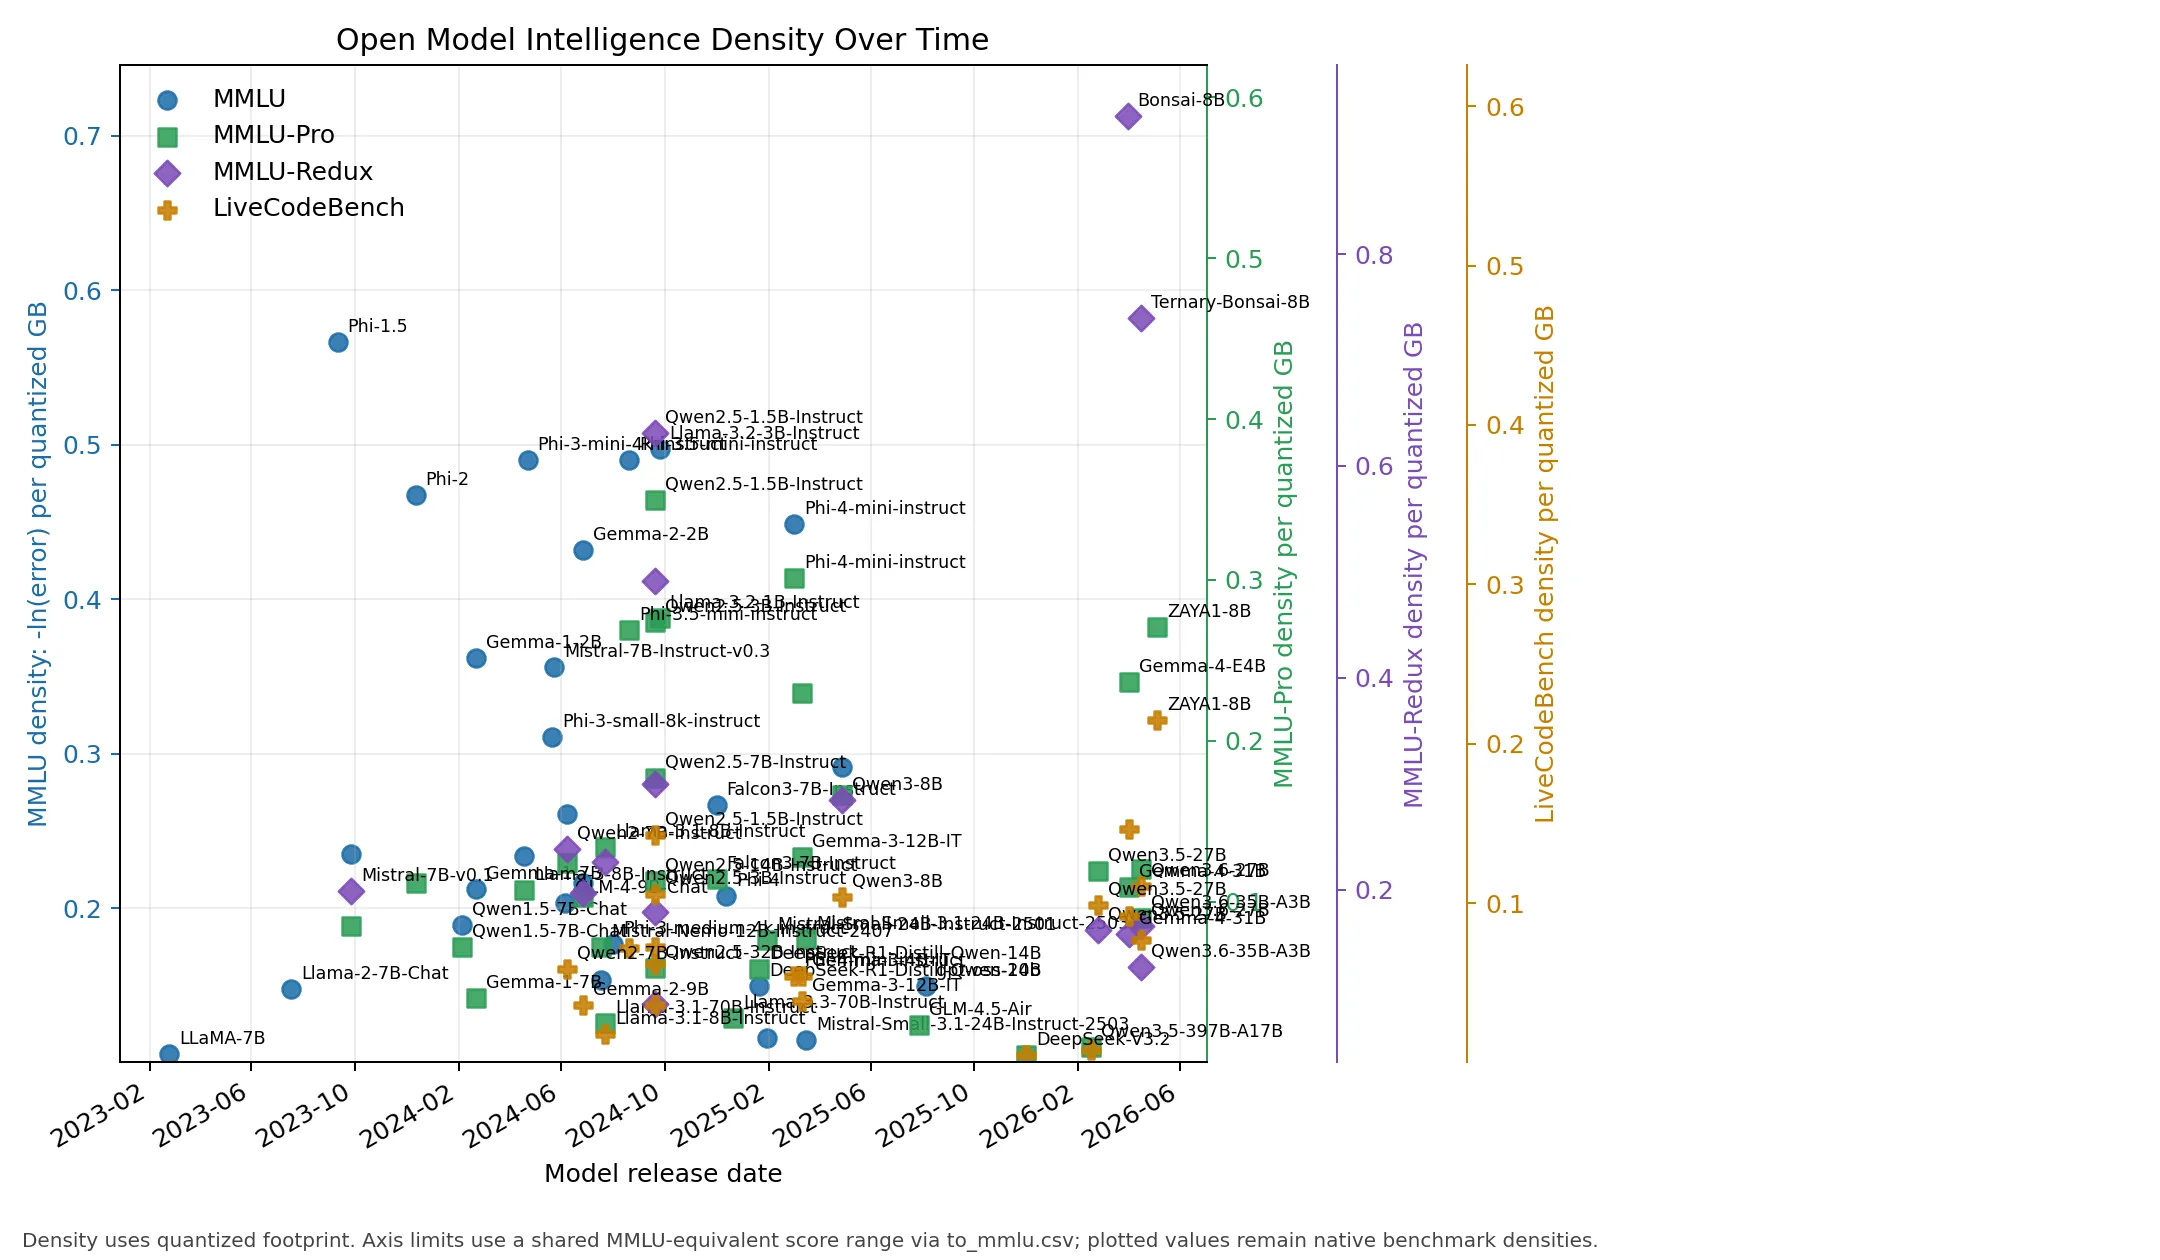
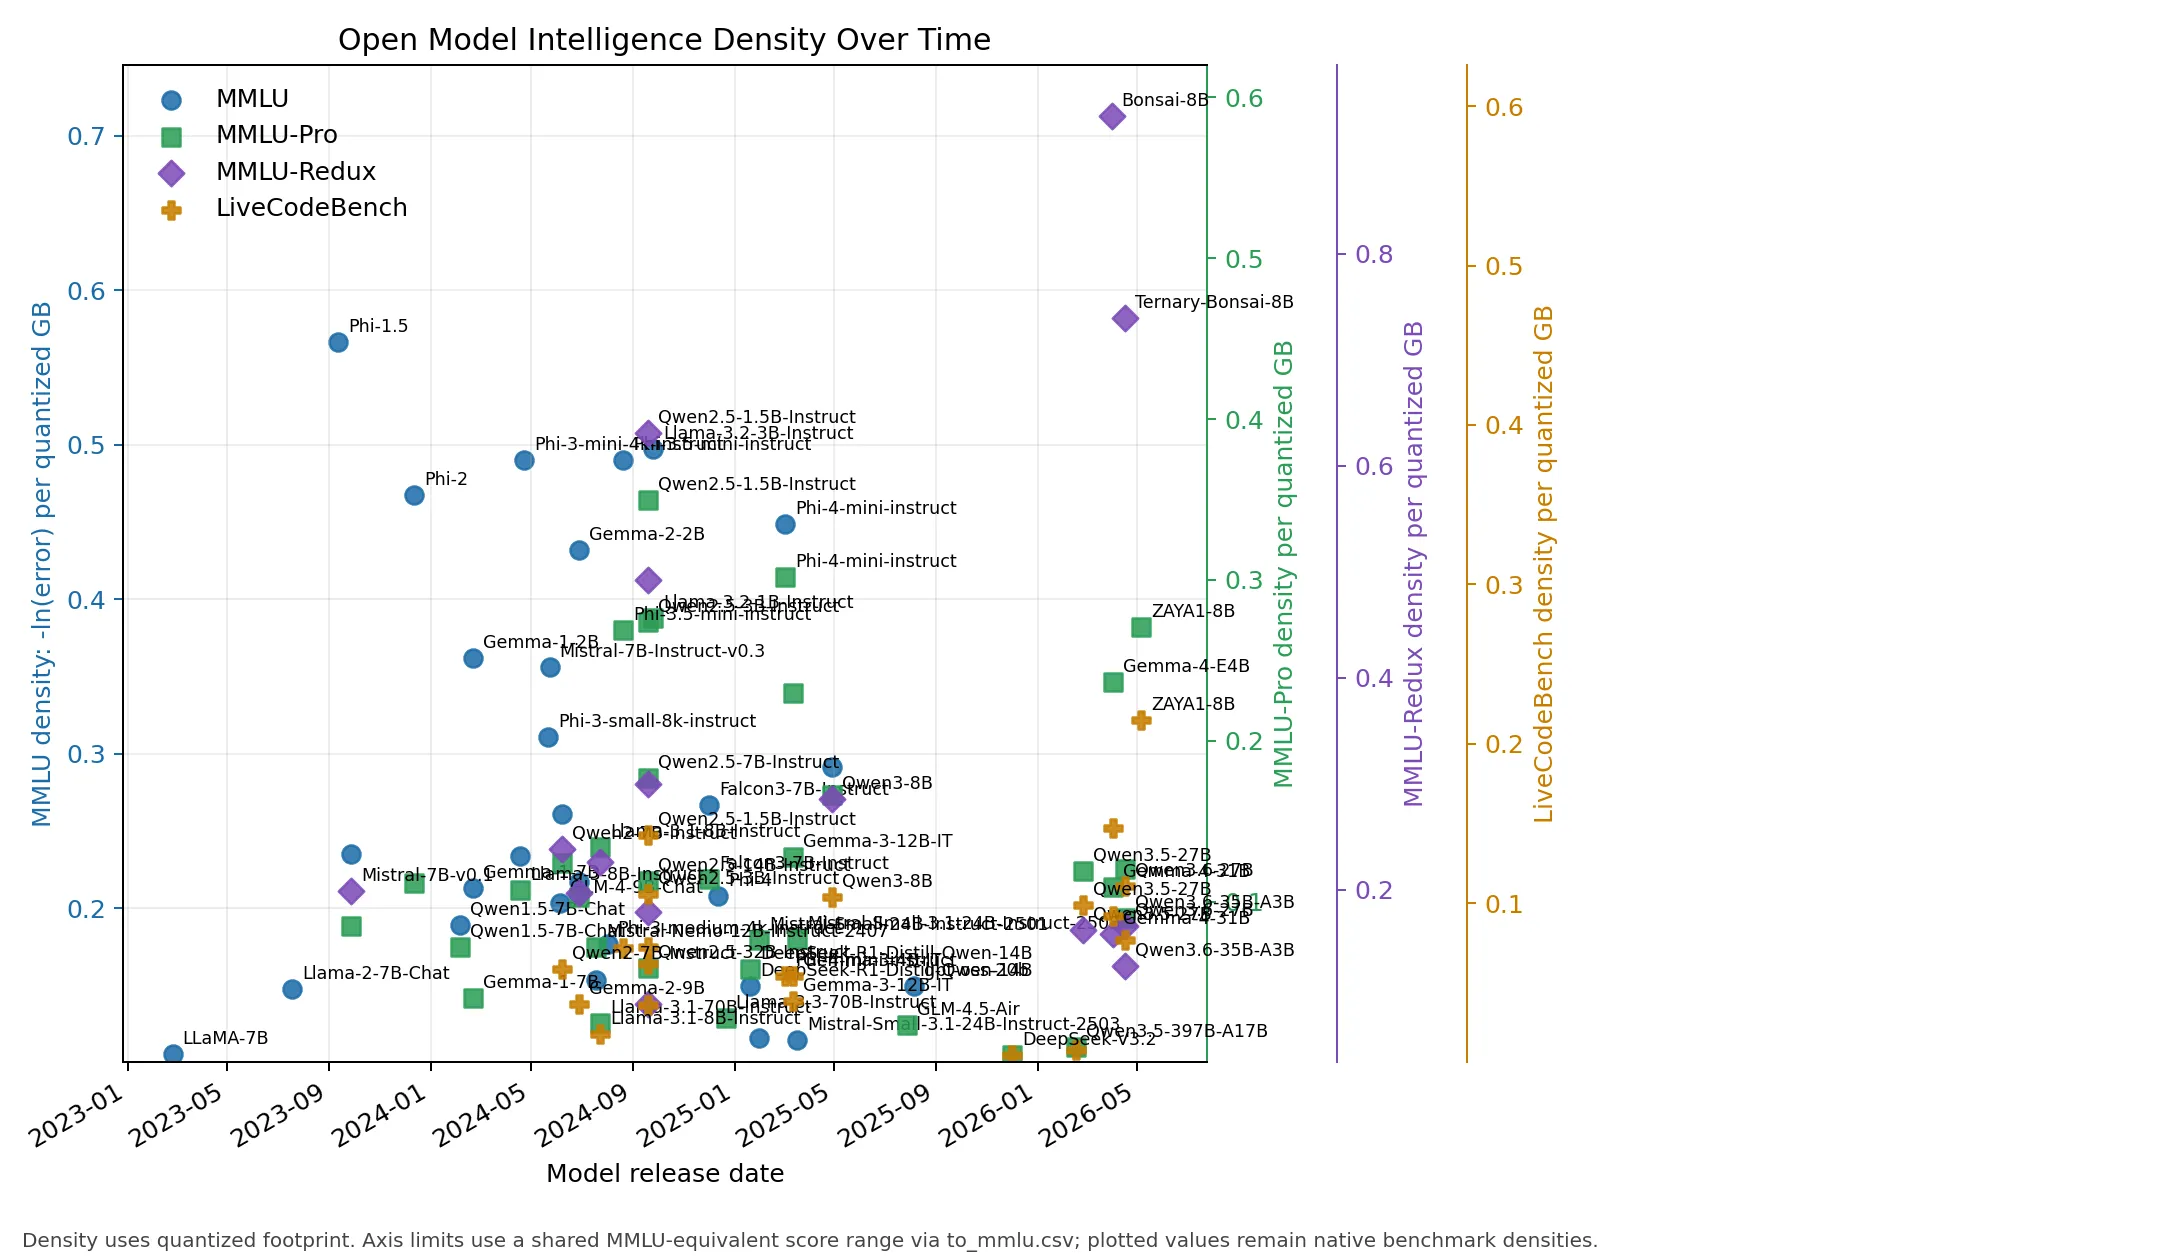
[intelligence-density] Update 2026 compact models with release dates, sizes, and density analysis.

diff --git a/intelligence-density/README.md b/intelligence-density/README.md
@@ -121,7 +121,7 @@ SWE-Bench-Pro has too little overlap and too much harness variation to serve as 
 
 The early 2023 baseline is sparse and mostly 7B-class. LLaMA-7B has MMLU 35.1 at a 4.08 GB Q4_K_M footprint, giving an MMLU density of about 0.105. Llama-2-7B-Chat improves to MMLU 45.3 at the same quantized footprint, or about 0.148.
 
-By late 2023 and 2024, compact models become much denser. Phi-1.5 reaches MMLU 37.6 with a 0.832 GB Q4_K_M artifact. Phi-2 reaches MMLU 56.7 with a 1.79 GB Q4_K_M artifact, producing about 0.468 MMLU density. Phi-3-mini-4k-instruct and Phi-3.5-mini-instruct reach approximately 0.490 MMLU density at a 2.39 GB quantized footprint. Llama-3.2-1B-Instruct is one of the strongest native MMLU-density points: MMLU 49.3 at 0.808 GB, or about 0.841.
+By late 2023 and 2024, compact models become much denser. Phi-1.5 reaches MMLU 37.6 with a 0.832 GB Q4_K_M artifact. Phi-2 reaches MMLU 56.7 with a 1.79 GB Q4_K_M artifact, producing about 0.468 MMLU density. Phi-3-mini-4k-instruct and Phi-3.5-mini-instruct reach approximately 0.490 MMLU density at a 2.39 GB quantized footprint. Llama-3.2-1B-Instruct is one of the strongest native MMLU-density points: MMLU 49.3 at 0.808 GB, or about 0.841. MiniCPM5-1B, Qwen3.6-0.6B, Qwen3.5-0.8B, and LFM2.5-1.2.B represent the 2026 density frontier for sub-2GB artifacts. MiniCPM5-1B reaches MMLU-Redux 70.06 at only 0.688 GB [76, 80], while LFM2.5-1.2.B reaches MMLU-Pro 47.98 at 0.731 GB [78, 83]. Qwen3.5-0.8B [77, 82] and Qwen3.6-0.6B [79, 81] further extend the frontier for extremely small footprints.
 
 Qwen2.5 clarifies the size/capability tradeoff. Qwen2.5-1.5B-Instruct and Qwen2.5-3B-Instruct are strong MMLU-Pro and MMLU-Redux density points. Larger Qwen2.5 7B, 14B, and 32B rows improve absolute scores but at progressively lower density.
 
@@ -240,6 +240,14 @@ This paper relies on public model cards, benchmark tables, GGUF/MXFP4/NVFP4/NF4 
 73. Zyphra. "ZAYA1-8B: Frontier intelligence density, trained on AMD." https://www.zyphra.com/post/zaya1-8b
 74. Zyphra. "ZAYA1-8B." Hugging Face. https://huggingface.co/Zyphra/ZAYA1-8B
 75. barozp. "ZAYA1-8B bitsandbytes Quantizations." Hugging Face. https://huggingface.co/barozp/ZAYA1-8B-BNB
+76. Artificial Analysis. "MiniCPM5-1B Model Details." https://artificialanalysis.ai/models/minicpm5-1b
+77. Alibaba Qwen Team. "Qwen3.5 Small Model Series." https://qwenlm.github.io/blog/qwen3.5/
+78. Liquid AI. "LFM2.5: Liquid Foundation Models v2.5." https://liquid.ai/blog/liquid-foundation-models-v2-5
+79. Alibaba Qwen Team. "Qwen3.6: Preserving Thinking in Agentic Coding." https://qwenlm.github.io/blog/qwen3.6/
+80. bartowski. "MiniCPM5-1B-GGUF." Hugging Face. https://huggingface.co/bartowski/MiniCPM5-1B-GGUF
+81. bartowski. "Qwen_Qwen3-0.6B-GGUF." Hugging Face. https://huggingface.co/bartowski/Qwen_Qwen3-0.6B-GGUF
+82. bartowski. "Qwen_Qwen3.5-0.8B-GGUF." Hugging Face. https://huggingface.co/bartowski/Qwen_Qwen3.5-0.8B-GGUF
+83. Liquid AI. "LFM2.5-1.2B-Instruct-GGUF." Hugging Face. https://huggingface.co/LiquidAI/LFM2.5-1.2B-Instruct-GGUF
 
 ## Appendices
 